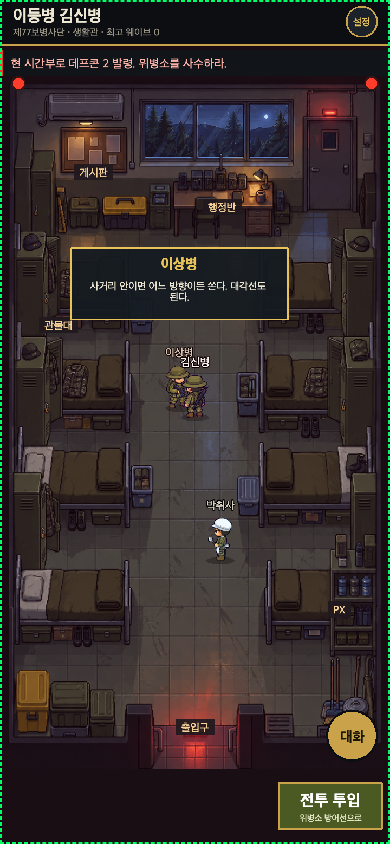
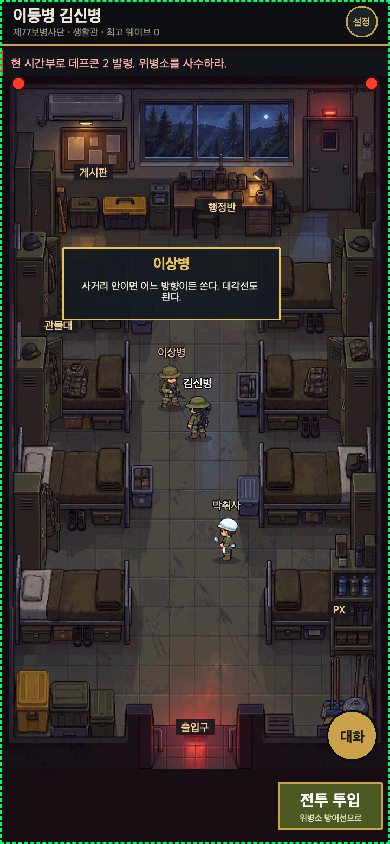
T-117: 전투 왕복·대화·누락 대체 검증 및 이미지 용량 보정

diff --git a/tests/lobby-art.test.ts b/tests/lobby-art.test.ts
@@ -15,6 +15,7 @@ describe('승인 생활관 그림', () => {
     const ledger = JSON.parse(readFileSync('art/LEDGER.json', 'utf8')).entries as Array<{ id: string; file: string; mapping: string }>
     for (const key of keys) {
       const contract = ASSET_CONTRACTS.find((item) => item.key === key)!
+      expect(readFileSync(`public/assets/${key}.png`).byteLength).toBeLessThanOrEqual(512 * 1024)
       const image = png(key)
       expect(index.filter((id) => id === key)).toHaveLength(1)
       const entry = ledger.filter((item) => item.id === key)
@@ -28,6 +29,7 @@ describe('승인 생활관 그림', () => {
 
   it('각 방향 프레임은 투명 배경과 y=116 발 기준선을 가진다', () => {
     for (const key of sprites) {
+      expect(readFileSync(`public/assets/${key}.png`).byteLength).toBeLessThanOrEqual(512 * 1024)
       const image = png(key)
       for (let frame = 0; frame < image.width / 128; frame++) {
         let minY = 128, maxY = -1, transparent = 0, magenta = 0

diff --git a/src/ui/walk.ts b/src/ui/walk.ts
@@ -63,7 +63,7 @@ const L = {
     { id: 'door', x: 0.5, y: 0.94, r: 90, title: '출입구', desc: '위병소 방면 · 전투 투입', kind: 'deploy' },
     {
       id: 'lee',
-      x: 0.46,
+      x: 0.44,
       y: 0.48,
       r: 90,
       title: '이상병',
@@ -78,7 +78,7 @@ const L = {
     },
     {
       id: 'park',
-      x: 0.565,
+      x: 0.58,
       y: 0.70,
       r: 90,
       title: '박취사',
@@ -160,6 +160,8 @@ export class WalkScene extends Scene {
     this.colliders = L.colliders.map(rect)
     this.bounds = rect(L.bounds)
     this.zones = L.spots.map((s) => ({ id: s.id, x: px(s.x), y: py(s.y), r: s.r, spot: s }))
+    // 동료는 발 주변만 막는다. 중앙 통로는 남겨 두고 몸을 겹쳐 지나가지 않게 한다.
+    for (const z of this.zones) if (z.spot.kind === 'npc') this.colliders.push({ x: z.x - 20, y: z.y - 16, w: 40, h: 32 })
     this.pos = { x: px(L.start.x), y: py(L.start.y) }
     this.current = null
     this.lineIdx = {}

diff --git a/src/ui/lobby.ts b/src/ui/lobby.ts
@@ -180,6 +180,7 @@ export async function showBriefing(cutIndex = 0): Promise<void> {
     return
   }
 
+  panelOpen = true
   const request = ++briefingRequest
   const assets = await ensureAvailableAssets()
   if (request !== briefingRequest) return

diff --git a/docs/tickets/T-117-approved-visuals.md b/docs/tickets/T-117-approved-visuals.md
@@ -17,6 +17,8 @@ A-106에서 승인한 브리핑4컷·생활관 배경·신병 걷기/회전·동
 - `docs/tickets/T-117-approved-visuals.md`
 - `docs/HANDOFF.md`
 - `docs/shots/T-117*.png`
+- `docs/tickets/A-106-visual-review.md`
+- `docs/shots/A-106*.png`
 - `src/assets.ts`
 - `src/ui/lobby.ts`
 - `src/ui/style.css`
@@ -93,6 +95,10 @@ A-106에서 승인한 브리핑4컷·생활관 배경·신병 걷기/회전·동
 - [x] 4방향 보행/8방향 순차회전·정지·대화 시 상대방향·이동 또는5초 후 복귀 연결. 가구/상자 충돌과 각 구역 접근점·표지를 새 배경에 맞춤. 브리핑 제목/삽화/다음 버튼·빠른중복입력/늦은응답 가드·직행 URL 연결. 타입 검사 완료 후 실제 브라우저 검증 예정.
 
 - [x] 중단 재개: 브랜치·변경파일·브라우저 상태 확인. verify23파일364테스트·95에셋·타입/빌드 통과(기존 번들 경고). 브리핑4컷→생활관 실제 버튼 흐름·삽화 로드/캔버스1개 확인. 보행 n키/프레임변화, 정지 복귀, 박취사 서로5/1방향·이상병3/7방향 대화, 이동시 대화 종료/원방향 복귀 확인. 사진8장 저장. 도감은 실제 열렸고 제목 전체가 “관물대 · 병과 도감”이라 단독 “병과 도감” 대기만 시간 초과한 검사 문제였다. 다음은 구역별/충돌·조이스틱/전투왕복·누락대체·좁은세로 검사.
+
+- [x] 최종 동선 검사: 실제 키보드·조이스틱(위 이동 약72px, walk_rook_walk_n 재생/손 떼면 정지), 두 NPC 마주 보기·5초 뒤 원방향·동료 발 주변 충돌,4구역 메뉴 열기·게시판 브리핑 재생/Enter 다음/건너뛰기·브리핑 중 이동 잠금 확인. 출입구 투입→일시정지→포기→생활관→재보행·캔버스1개 확인.
+- [x] 320×568 버튼 화면 안 배치, 브리핑 그림 요청 실패시 제목/본문/버튼 유지, art=0 이동/구역 대체·오류0 확인. 갤러리112계약키와 신규12텍스처 실제 로드 확인. 배경5장은 색 단계 축소로 각각512KB 이하, 원본 보존. 최종 verify23파일364테스트·95에셋·타입/빌드 통과, 기존500KB 번들 경고.
+- [x] 시안 승인 이력이 구현 PR과 따로 병합되며 HANDOFF 충돌하지 않도록 A-106 문서/검토 사진을 선행 브랜치에서 함께 보존한다. 이 두 소유 경로를 명시했으며 제품 구현 범위는 동일하다. PR #45는 통합 PR에 포함 후 대체 종료한다.
 
 ## 결과 보고
 
